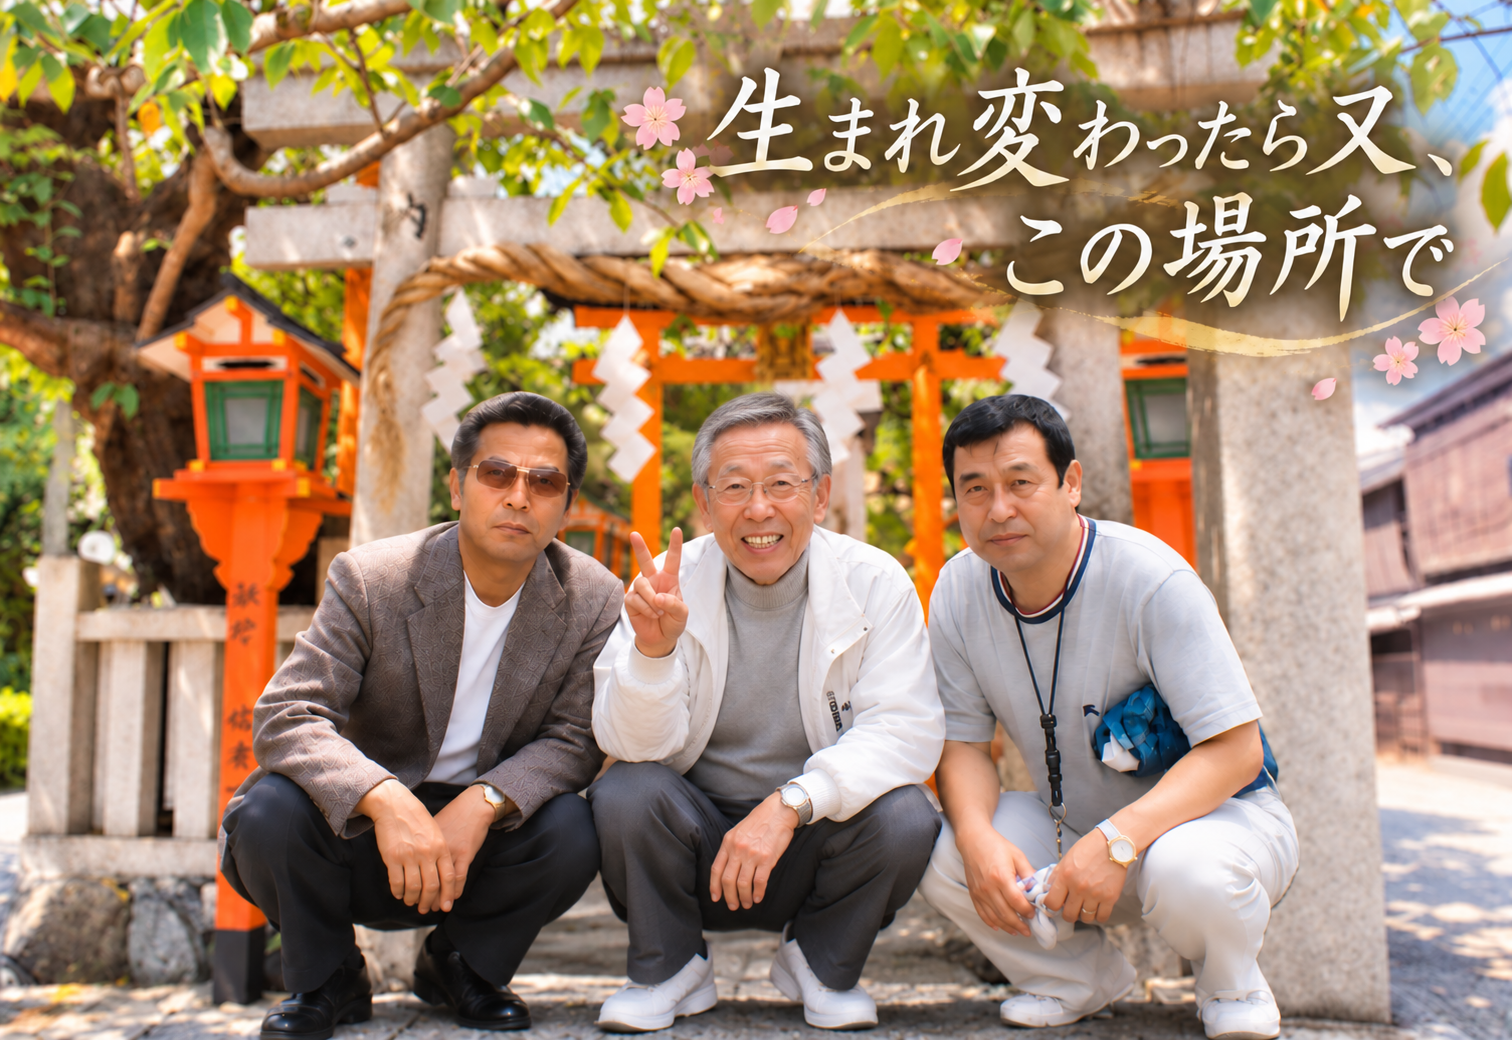
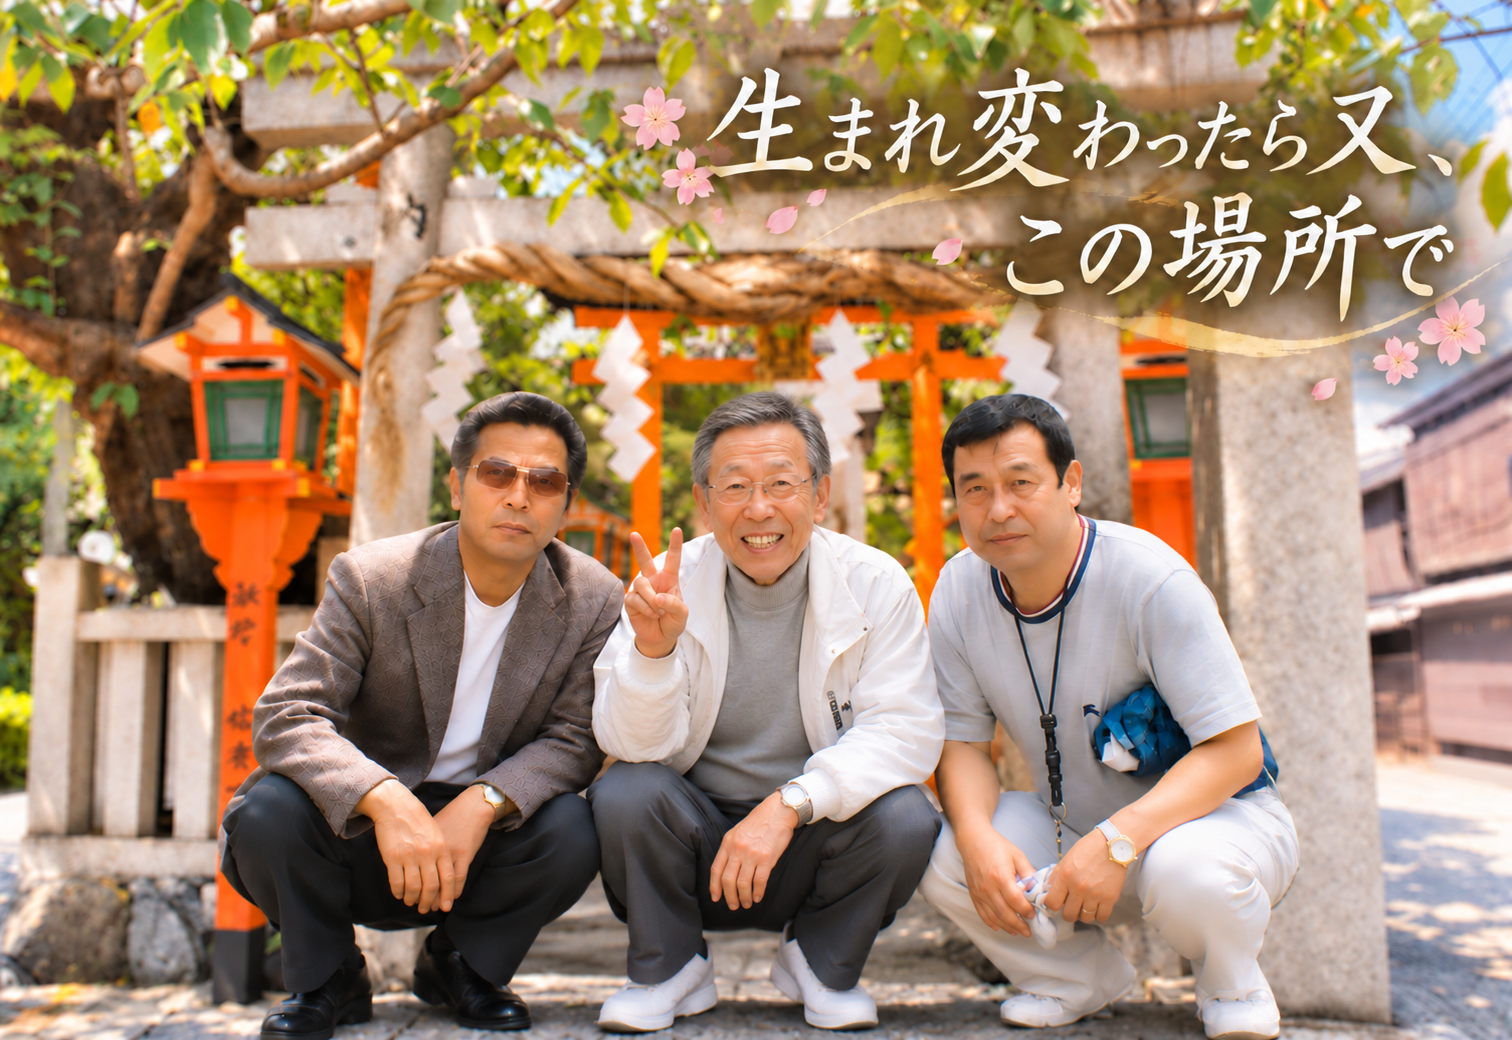
Adjust cover hair to natural gray and update age to 80

diff --git a/index.html b/index.html
@@ -1,1 +1,1 @@
-<!doctype html><html lang="ja"><head><meta charset="utf-8"><meta name="viewport" content="width=device-width,initial-scale=1"><title>富山一成さんの人生の履歴書</title><meta name="description" content="友人のまなざしで綴る、富山一成さんの歩み。"><link rel="stylesheet" href="style.css"></head><body><header class="bar"><a href="#top">人生の履歴書</a><div aria-label="文字の大きさ" class="sizes"><span>文字</span><button data-size="18">標準</button><button data-size="20">大</button><button data-size="22">特大</button></div></header><main id="top"><section class="hero"><div class="hero-copy"><p class="eyebrow">LIFE STORY / 友人が綴る人生の履歴書</p><h1>富山一成さん</h1><p class="lead">困難を越えて、<br>歩み続ける人。</p><p>中学時代の出会いから今まで。友として見つめてきた、その人柄と歩みを綴ります。</p><a class="read" href="#meeting">物語を読む ↓</a></div><figure><img src="images/friends.png" alt="仲間３人が並ぶ思い出の画像"><figcaption>仲間とともに</figcaption></figure></section><nav aria-label="目次"><a href="#meeting">出会い</a><a href="#mother">お母さんの背中</a><a href="#work">仕事と今</a></nav><section class="chapter" id="meeting"><div class="label"><span>01</span><small>THE FIRST MEETING</small></div><div class="prose"><h2>花見小路での出会い</h2><p>彼と知り合ったのは、中学２年の時でした。叔父の家の２階にいると、下から呼び声が聞こえました。下にいる２人の姿を確かめ、会いに行ったのが、富山さんとの初めての出会いです。</p><p>叔父の家は、四条から２筋目の花見小路通に面していました。当時は辺りが暗かったこと、そして富山さんの姿が、とても印象に残っています。というのも、当時は珍しかった伊達メガネを掛けていたからです。</p><h3>家を行き来する仲に</h3><p>それから私たちは急速に仲良くなり、互いの家を行き来することも多くなりました。今も、富山さんのお母さんの話し方や笑顔が、印象に残っています。</p></div></section><section class="chapter light" id="mother"><div class="label"><span>02</span><small>THE STRENGTH AT HOME</small></div><div class="prose"><h2>お母さんの背中から</h2><h3>忘れられない扇風機</h3><p>当時は暮らしが貧しく、ある日、私がお邪魔していた時のことです。富山さんのお母さんが、中古の鉄でできた扇風機を、２キロほどの道のりを持ち帰られました。その姿に、私は感嘆しました。</p><p>きゃしゃな体で、あれほど重いものを持ち帰ることは、想像を絶します。そのひたむきな立ち振る舞いを、今でも覚えています。</p><h3>家庭の中で学んだもの</h3><p>私は、会社経営を続けてこられた富山さんの成功の背景には、お母さんの立ち振る舞いがあったのではないかと、いつも思っています。お母さんの姿を見て育ったことが、会社経営の大きな原動力になったのではないでしょうか。</p><p>知らず知らずのうちに、家庭の中から経営の基本を学んでいたのかもしれません。家庭、そしてお母さんの役割は、とても貴重で重要なものだと感じています。</p><p>なぜそう思うのか。それは、富山さんが中学の頃によく喧嘩をしていたことも知っているからです。私は、その頃の姿と後の商売の成功を思い合わせ、家庭の影響に思いを巡らせます。</p></div></section><section class="chapter" id="work"><div class="label"><span>03</span><small>WORK &amp; LIFE</small></div><div class="prose"><h2>仕事を築き、<br>今も歩み続ける</h2><p>富山さんは40代半ばからメンテナンス会社を立ち上げ、30年以上にわたり経営を続けてこられました。その歩みを、私はいつも立派だと思っています。</p><figure class="story-photo"><img src="images/maruyama.png" alt="雪の円山公園と富山さん"><figcaption>雪の円山公園と富山さん</figcaption></figure><h3>困難を越える強さ</h3><p>人生には、いろいろな災難が訪れます。富山さんがいつも気強くそれを乗り越え、生きておられる姿に、私も見習わなければと勇気をもらっています。</p><p>80歳を間近にした現在も会社に関わり、努力を続けておられます。これからも健康を保ちながら、ご自分の人生を歩まれることを願っています。</p><blockquote>いつも勇気をくれる友へ。<br>これからも、健やかな日々を。</blockquote></div></section></main><footer><p>富山一成さんの人生の履歴書</p><a href="#top">ページの先頭へ ↑</a></footer><script src="app.js"></script></body></html>
+<!doctype html><html lang="ja"><head><meta charset="utf-8"><meta name="viewport" content="width=device-width,initial-scale=1"><title>富山一成さんの人生の履歴書</title><meta name="description" content="友人のまなざしで綴る、富山一成さんの歩み。"><link rel="stylesheet" href="style.css"></head><body><header class="bar"><a href="#top">人生の履歴書</a><div aria-label="文字の大きさ" class="sizes"><span>文字</span><button data-size="18">標準</button><button data-size="20">大</button><button data-size="22">特大</button></div></header><main id="top"><section class="hero"><div class="hero-copy"><p class="eyebrow">LIFE STORY / 友人が綴る人生の履歴書</p><h1>富山一成さん</h1><p class="lead">困難を越えて、<br>歩み続ける人。</p><p>中学時代の出会いから今まで。友として見つめてきた、その人柄と歩みを綴ります。</p><a class="read" href="#meeting">物語を読む ↓</a></div><figure><img src="images/friends.png?v=20261121-gray" alt="仲間３人が並ぶ思い出の画像"><figcaption>仲間とともに</figcaption></figure></section><nav aria-label="目次"><a href="#meeting">出会い</a><a href="#mother">お母さんの背中</a><a href="#work">仕事と今</a></nav><section class="chapter" id="meeting"><div class="label"><span>01</span><small>THE FIRST MEETING</small></div><div class="prose"><h2>花見小路での出会い</h2><p>彼と知り合ったのは、中学２年の時でした。叔父の家の２階にいると、下から呼び声が聞こえました。下にいる２人の姿を確かめ、会いに行ったのが、富山さんとの初めての出会いです。</p><p>叔父の家は、四条から２筋目の花見小路通に面していました。当時は辺りが暗かったこと、そして富山さんの姿が、とても印象に残っています。というのも、当時は珍しかった伊達メガネを掛けていたからです。</p><h3>家を行き来する仲に</h3><p>それから私たちは急速に仲良くなり、互いの家を行き来することも多くなりました。今も、富山さんのお母さんの話し方や笑顔が、印象に残っています。</p></div></section><section class="chapter light" id="mother"><div class="label"><span>02</span><small>THE STRENGTH AT HOME</small></div><div class="prose"><h2>お母さんの背中から</h2><h3>忘れられない扇風機</h3><p>当時は暮らしが貧しく、ある日、私がお邪魔していた時のことです。富山さんのお母さんが、中古の鉄でできた扇風機を、２キロほどの道のりを持ち帰られました。その姿に、私は感嘆しました。</p><p>きゃしゃな体で、あれほど重いものを持ち帰ることは、想像を絶します。そのひたむきな立ち振る舞いを、今でも覚えています。</p><h3>家庭の中で学んだもの</h3><p>私は、会社経営を続けてこられた富山さんの成功の背景には、お母さんの立ち振る舞いがあったのではないかと、いつも思っています。お母さんの姿を見て育ったことが、会社経営の大きな原動力になったのではないでしょうか。</p><p>知らず知らずのうちに、家庭の中から経営の基本を学んでいたのかもしれません。家庭、そしてお母さんの役割は、とても貴重で重要なものだと感じています。</p><p>なぜそう思うのか。それは、富山さんが中学の頃によく喧嘩をしていたことも知っているからです。私は、その頃の姿と後の商売の成功を思い合わせ、家庭の影響に思いを巡らせます。</p></div></section><section class="chapter" id="work"><div class="label"><span>03</span><small>WORK &amp; LIFE</small></div><div class="prose"><h2>仕事を築き、<br>今も歩み続ける</h2><p>富山さんは40代半ばからメンテナンス会社を立ち上げ、30年以上にわたり経営を続けてこられました。その歩みを、私はいつも立派だと思っています。</p><figure class="story-photo"><img src="images/maruyama.png" alt="雪の円山公園と富山さん"><figcaption>雪の円山公園と富山さん</figcaption></figure><h3>困難を越える強さ</h3><p>人生には、いろいろな災難が訪れます。富山さんがいつも気強くそれを乗り越え、生きておられる姿に、私も見習わなければと勇気をもらっています。</p><p>80歳の現在も会社に関わり、努力を続けておられます。これからも健康を保ちながら、ご自分の人生を歩まれることを願っています。</p><blockquote>いつも勇気をくれる友へ。<br>これからも、健やかな日々を。</blockquote></div></section></main><footer><p>富山一成さんの人生の履歴書</p><a href="#top">ページの先頭へ ↑</a></footer><script src="app.js"></script></body></html>
